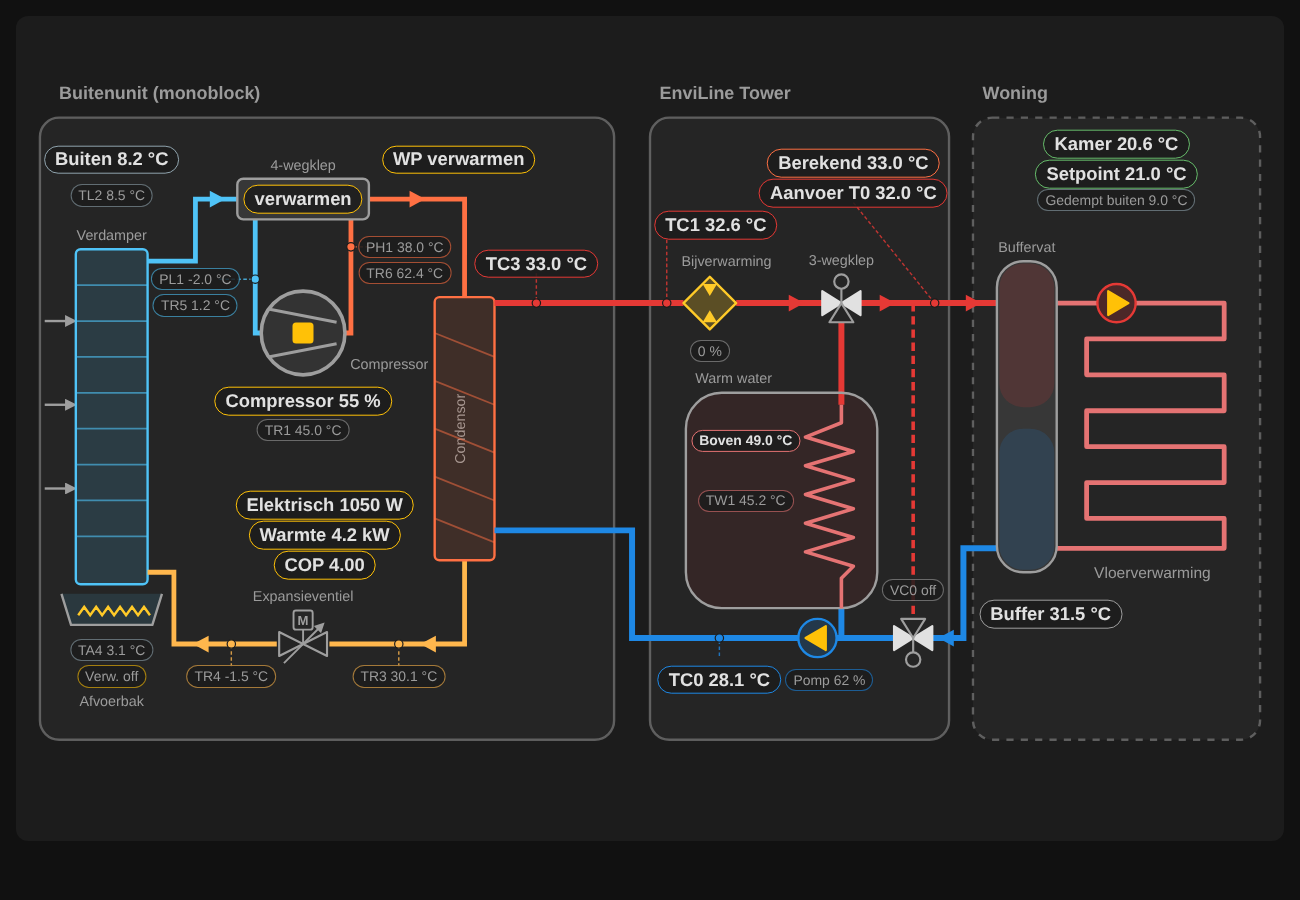
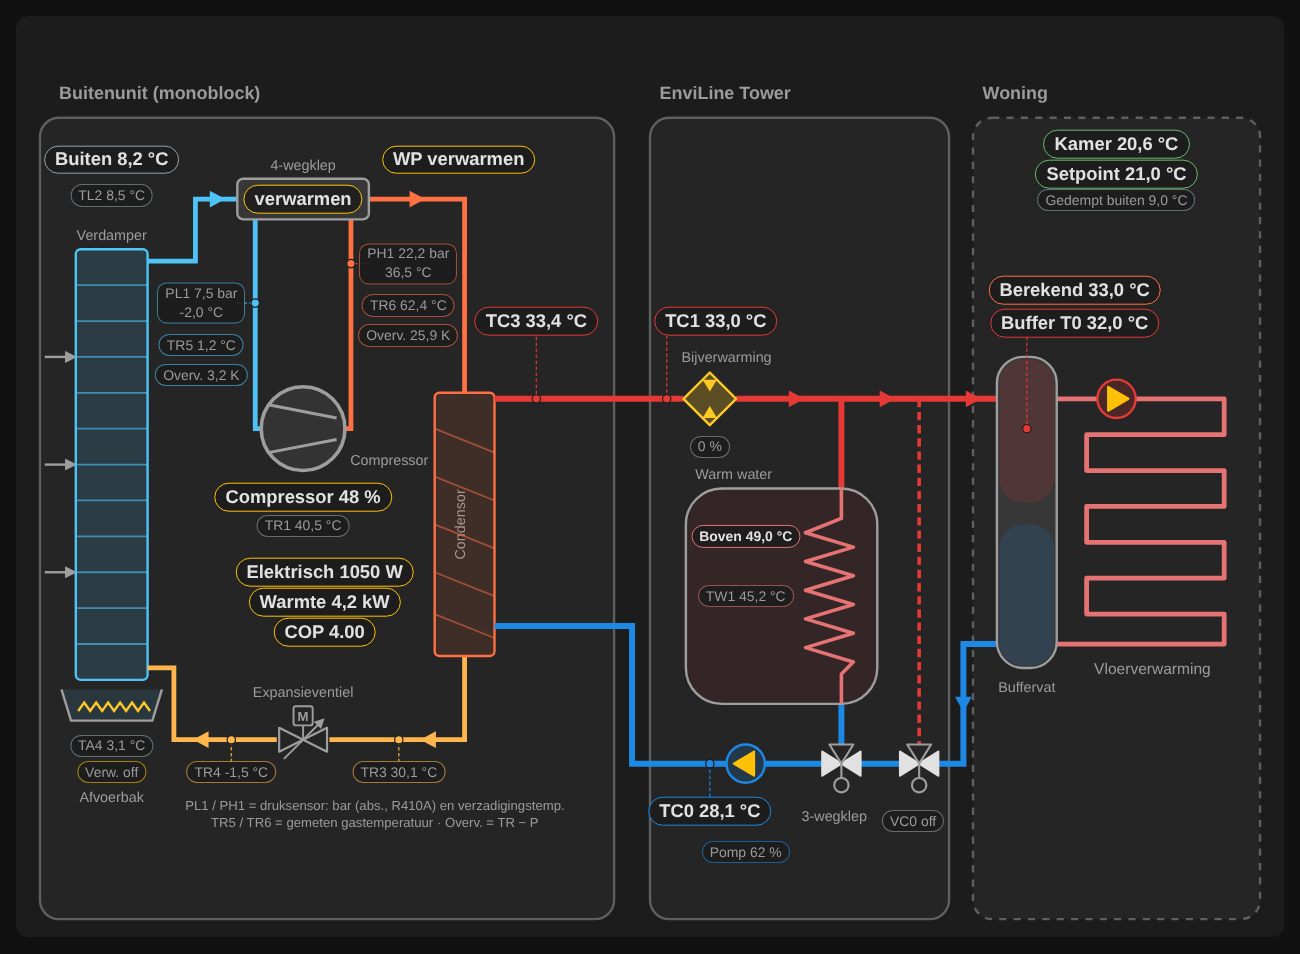
Refresh the README screenshots for v0.6.0
One dark-theme image with the heat pump heating the house and one
light-theme image with it heating hot water, both showing the 3-way
valve on the return side.

Claude-Session: https://claude.ai/code/session_01N8zVEc9LNqVZJEPE1NZP6G

diff --git a/README.md b/README.md
@@ -2,7 +2,7 @@
 
 A live Lovelace diagram of a **Nefit-Bosch EnviLine Tower** heat pump (all-electric monobloc outdoor unit), read through **[EMS-ESP](https://emsesp.org)**. It shows the refrigerant circuit, the water side in the Tower (backup heater, 3-way valve, hot-water coil, primary pump, VC0 bypass valve) and the buffer tank with underfloor heating, with every sensor in place.
 
-![Dark theme, heating](docs/heat-dark.png)
+![Dark theme, heat pump heating the house](docs/heat-dark.png)
 
 What moves live:
 
@@ -15,7 +15,7 @@ What moves live:
 
 The card is drawn as inline SVG, so it follows your light or dark theme. Text is available in Dutch and English (follows the HA language by default).
 
-![Light theme, hot water](docs/dhw-off-light.png)
+![Light theme, heat pump heating hot water](docs/dhw-light.png)
 
 ## Installation
 
